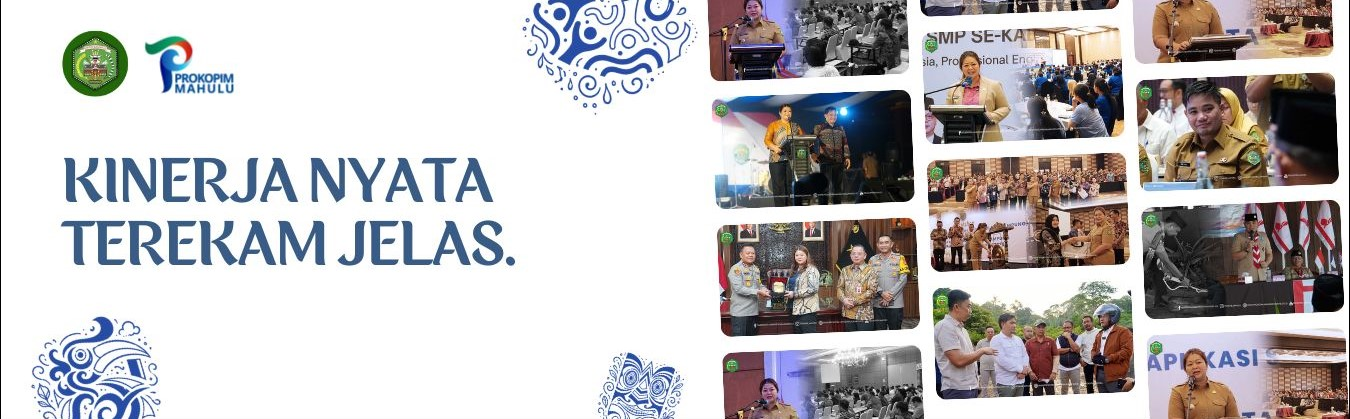
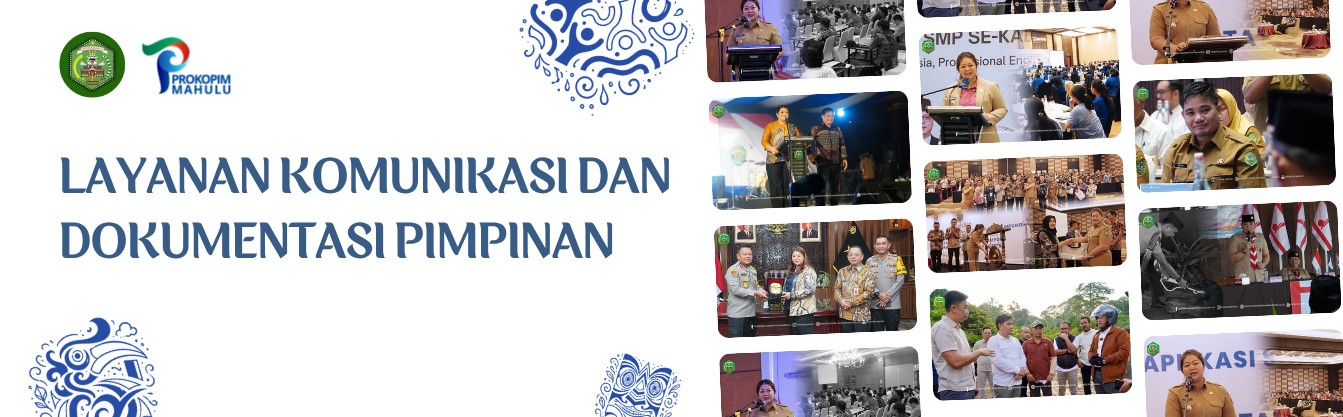
push

Changed region(s): [[0.0305, 0.0, 1.0, 1.0], [0.0, 0.7482, 0.1221, 1.0], [0.0305, 0.0624, 0.1832, 0.2494]]

diff --git a/routes/web.php b/routes/web.php
@@ -128,10 +128,11 @@ Route::prefix('sambutan')->name('sambutan.')->group(function () {
     // Route::resource('old-sambutan', SambutanController::class);
 });
 
+Route::get('/permohonan/create', [PermohonanController::class, 'create'])->name('permohonan.create');
+Route::post('/permohonan', [PermohonanController::class, 'store'])->name('permohonan.store');
+
 Route::middleware(['auth', CheckUserTipe::class . ':All Role,USERB'])->group(function () {
     Route::get('/permohonan', [PermohonanController::class, 'index'])->name('permohonan.index');
-    Route::get('/permohonan/create', [PermohonanController::class, 'create'])->name('permohonan.create');
-    Route::post('/permohonan', [PermohonanController::class, 'store'])->name('permohonan.store');
     Route::get('/permohonan/{id}', [PermohonanController::class, 'show'])->name('permohonan.show');
     Route::get('/permohonan/{id}/edit', [PermohonanController::class, 'edit'])->name('permohonan.edit');
     Route::put('/permohonan/{id}', [PermohonanController::class, 'update'])->name('permohonan.update');

diff --git a/app/Http/Controllers/PermohonanController.php b/app/Http/Controllers/PermohonanController.php
@@ -117,15 +117,18 @@ public function create()
         'disposisi'   => $request->disposisi,
         'status'      => 'Diajukan',
     ]);
-   
+    
     // Kirim notifikasi ke semua SUPERADMIN
     $superadmins = User::where('role', 'SUPERADMIN')->get();
     foreach ($superadmins as $admin) {
         $admin->notify(new PermohonanCreated($permohonan));
     }
 
+    if (auth()->check()) {
+        return redirect()->route('permohonan.index')->with('success', 'Permohonan berhasil dikirim.');
+    }
 
-    return redirect()->route('permohonan.index')->with('success', 'Permohonan berhasil dikirim.');
+    return redirect()->route('landing.index')->with('success', 'Permohonan berhasil dikirim.');
     
 }
 

diff --git a/database/migrations/2026_09_09_050000_make_permohonan_user_id_nullable.php b/database/migrations/2026_09_09_050000_make_permohonan_user_id_nullable.php
@@ -1,0 +1,28 @@
+<?php
+
+use Illuminate\Database\Migrations\Migration;
+use Illuminate\Database\Schema\Blueprint;
+use Illuminate\Support\Facades\Schema;
+
+return new class extends Migration
+{
+    /**
+     * Run the migrations.
+     */
+    public function up(): void
+    {
+        Schema::table('permohonans', function (Blueprint $table) {
+            $table->uuid('user_id')->nullable()->change();
+        });
+    }
+
+    /**
+     * Reverse the migrations.
+     */
+    public function down(): void
+    {
+        Schema::table('permohonans', function (Blueprint $table) {
+            $table->uuid('user_id')->nullable(false)->change();
+        });
+    }
+};
